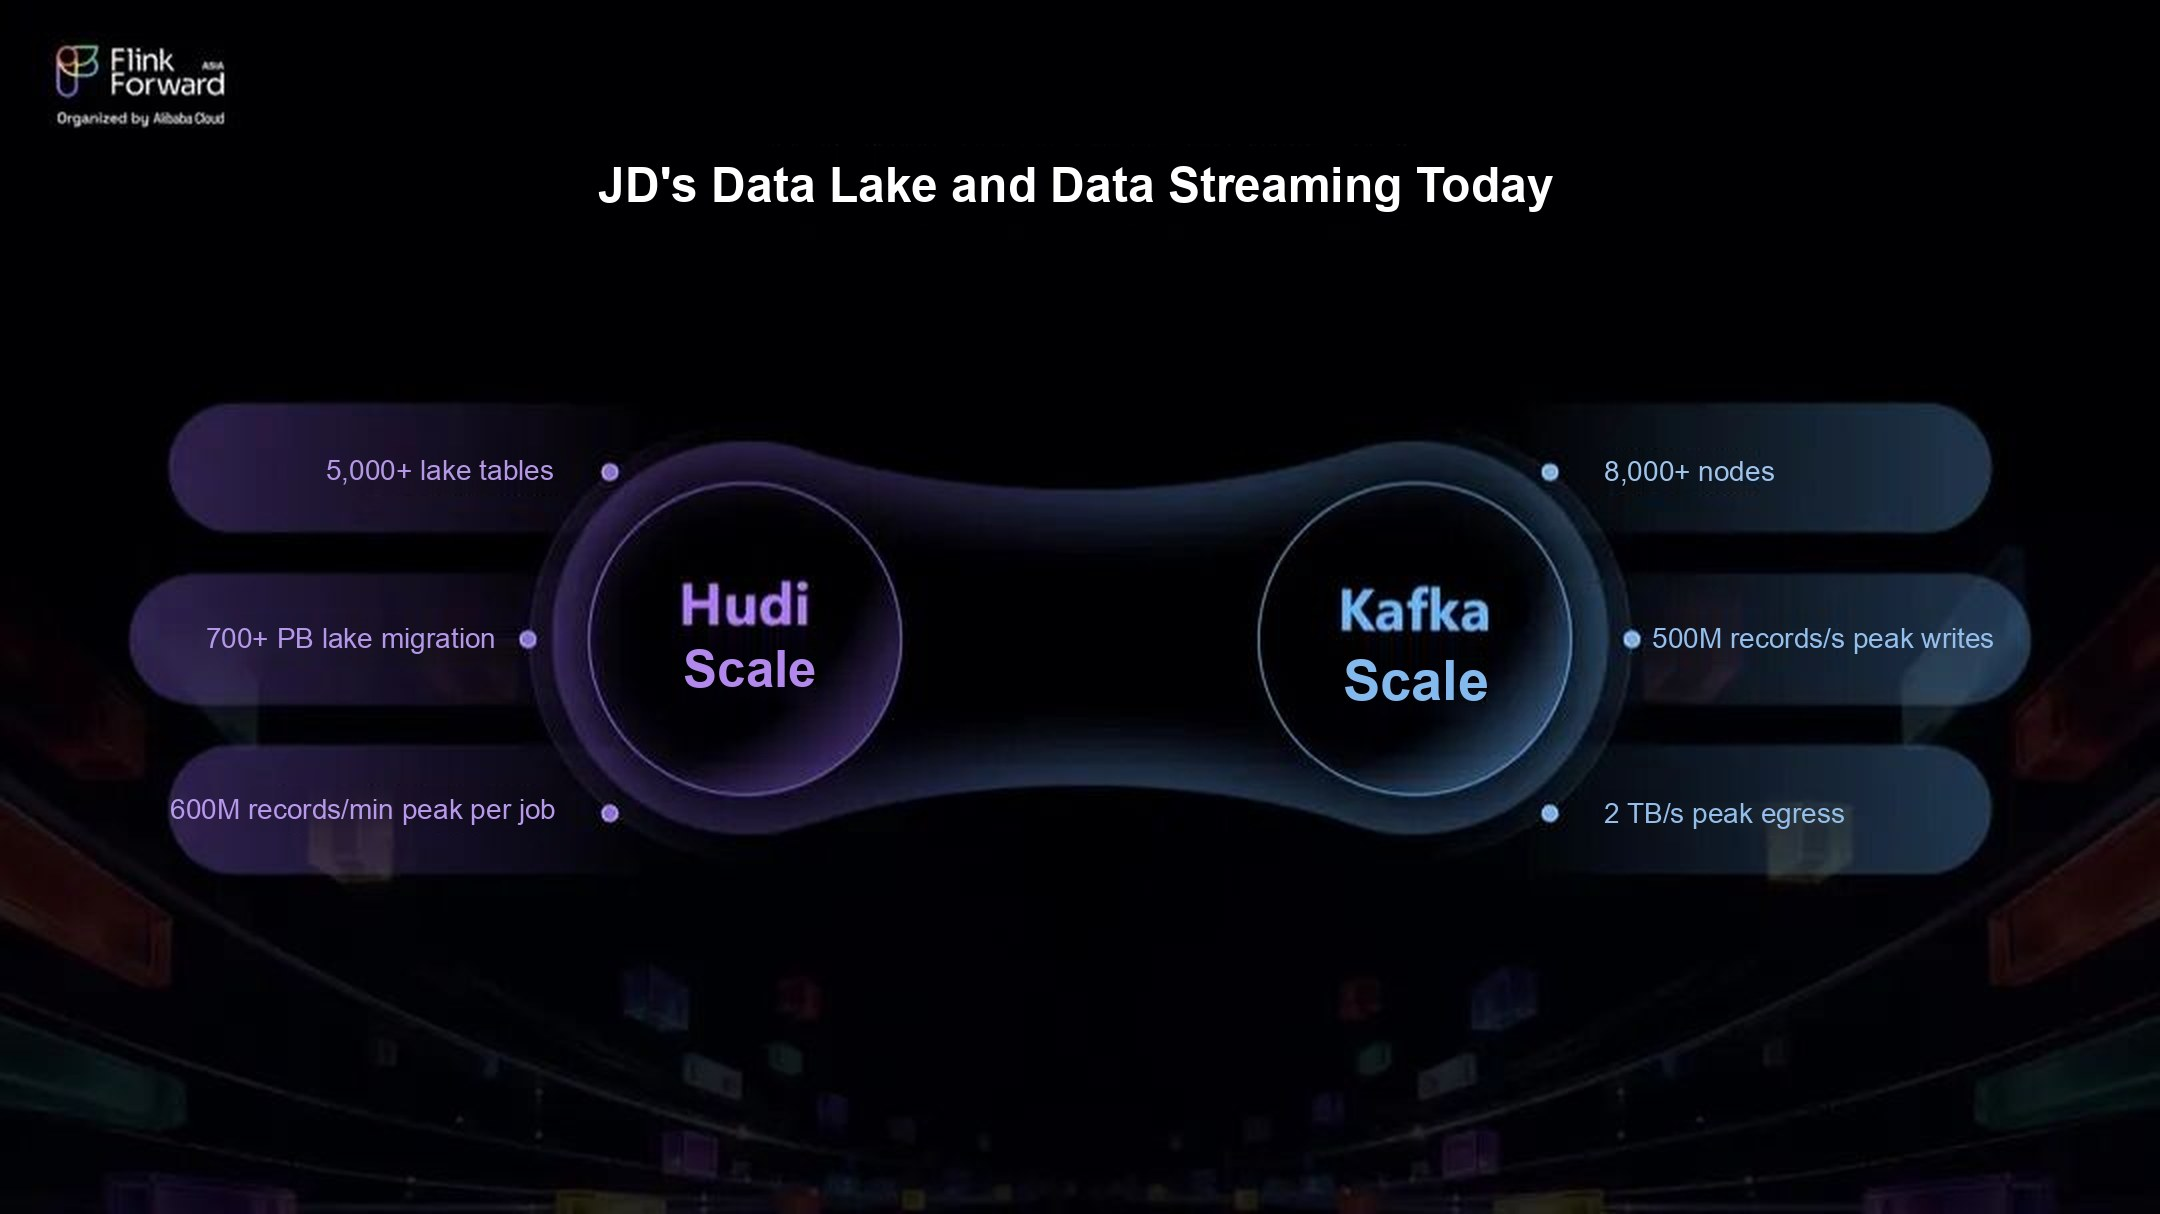
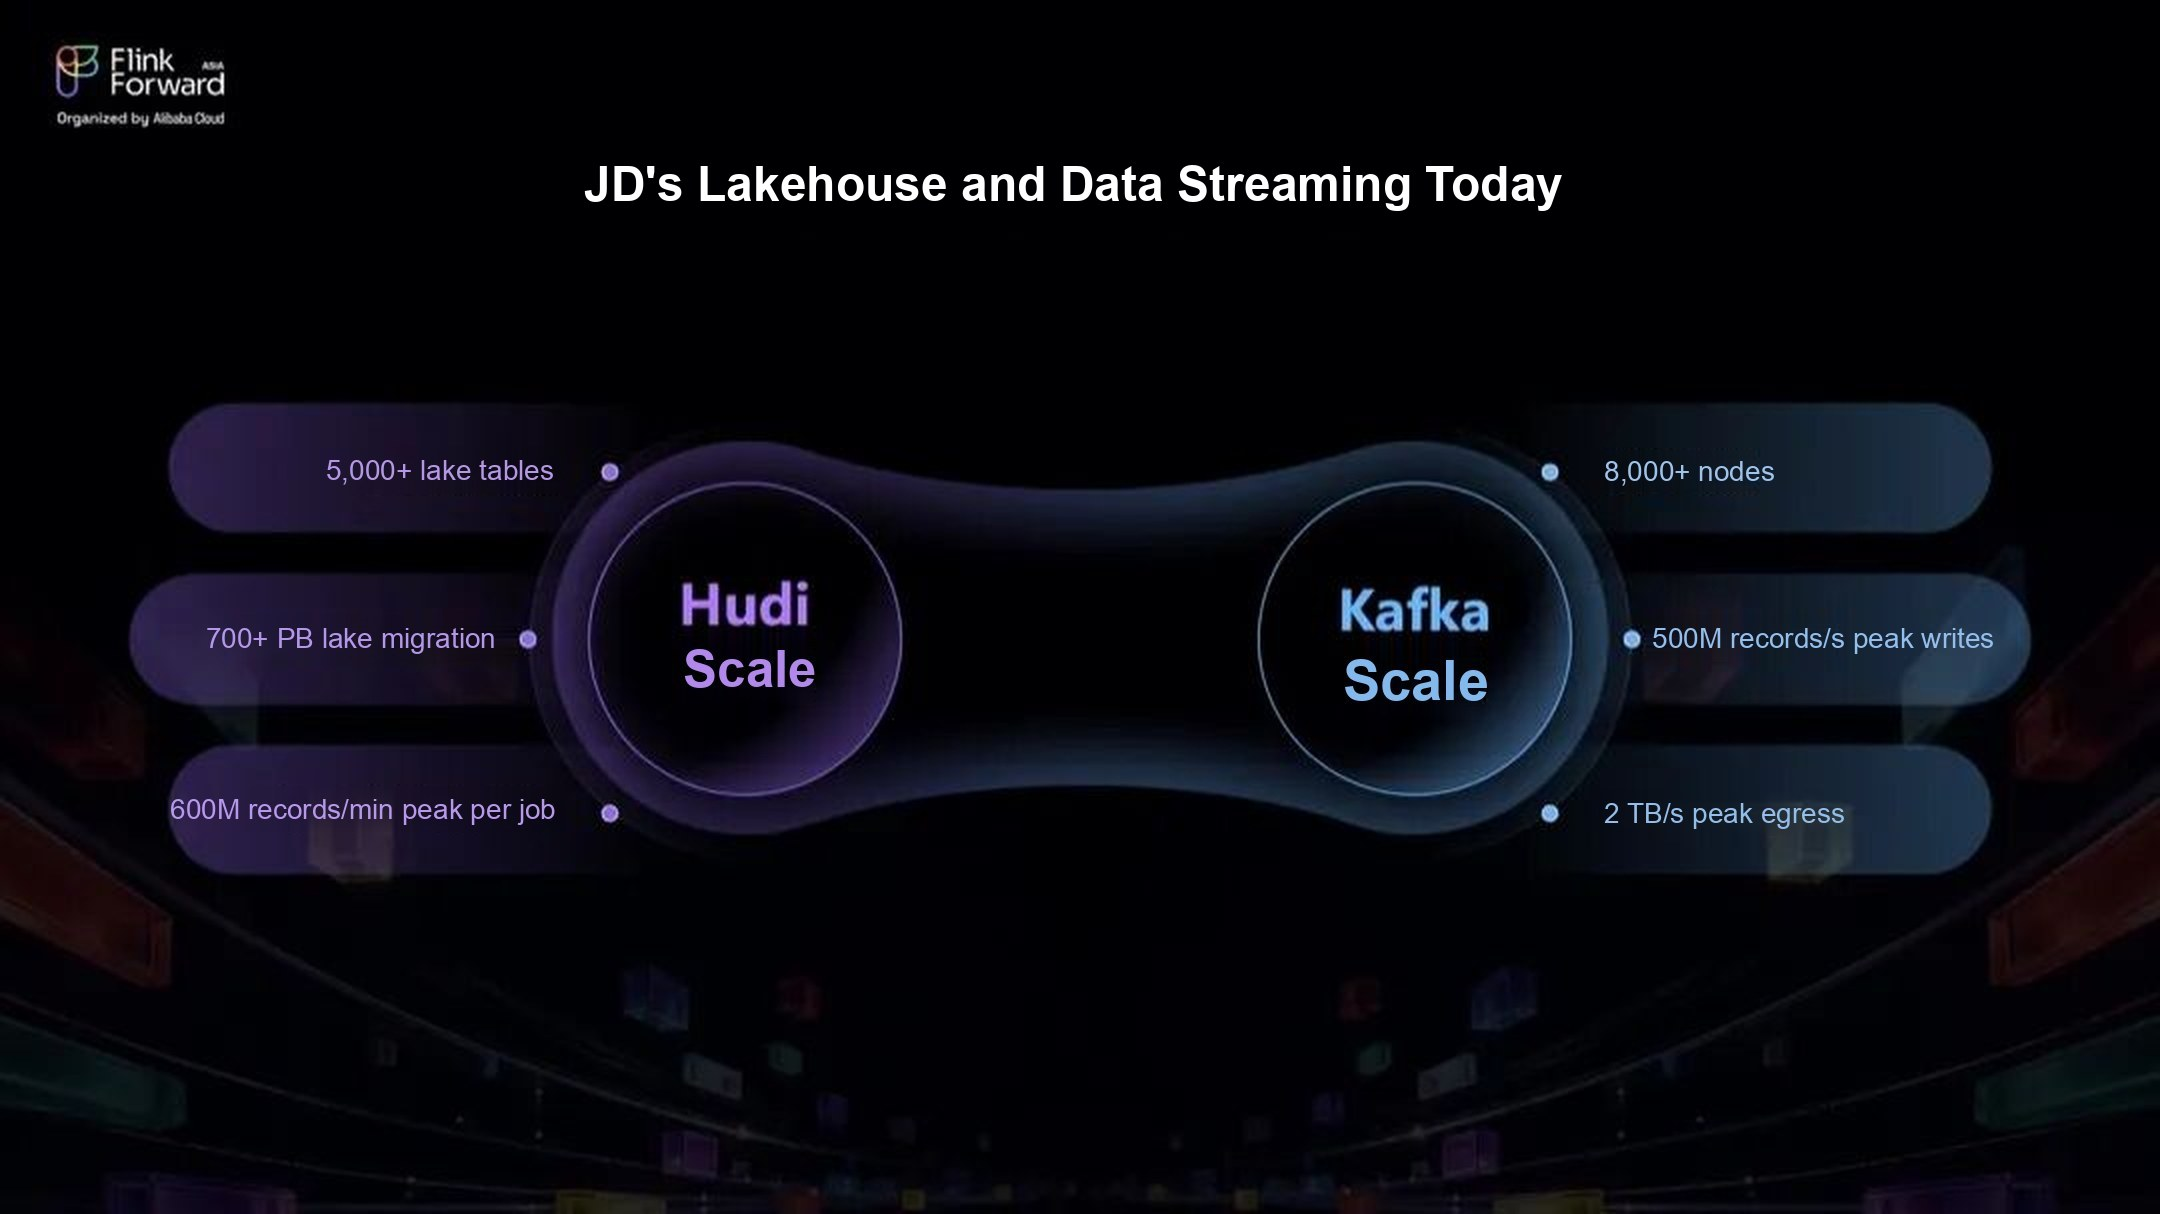
Use lakehouse instead of data lake in the JD translation

Changed region(s): [[0.2792, 0.1219, 0.7444, 0.1829]]

diff --git a/website/blog/2026-10-14-how-jd-built-a-lakestream-with-fluss-and-hudi.md b/website/blog/2026-10-14-how-jd-built-a-lakestream-with-fluss-and-hudi.md
@@ -18,7 +18,7 @@ _This blog was translated from the [original blog in Chinese](https://mp.weixin.
 
 ---
 
-JD.com runs a large Apache Hudi data lake alongside a large Apache Kafka deployment. This post describes how JD links streaming data and lake data with a **Lakestream**: fresh data lives in [Apache Fluss](https://fluss.apache.org/) tables, and a tiering service continuously writes it into Hudi tables. Readers can then query both together. The Fluss community calls this storage foundation a Lakestream: it unifies fresh data in streams with historical data in open lakehouse tables.
+JD.com runs a large Apache Hudi lakehouse alongside a large Apache Kafka deployment. This post describes how JD links streaming data and lake data with a **Lakestream**: fresh data lives in [Apache Fluss](https://fluss.apache.org/) tables, and a tiering service continuously writes it into Hudi tables. Readers can then query both together. The Fluss community calls this storage foundation a Lakestream: it unifies fresh data in streams with historical data in open lakehouse tables.
 
 :::tip TL;DR
 
@@ -33,10 +33,10 @@ The rest of the post covers the challenges, the recommendation ranking redesign,
 
 ## Challenges at JD's Scale
 
-Our data lake and streaming platforms have grown over many years. The lake runs on Apache Hudi, with **more than 5,000 tables** and **more than 700 PB** of data migrated into it, and a single job peaks at **more than 600 million records per minute**. The streaming platform runs on Apache Kafka, with **more than 8,000 nodes** in production, peak writes of **500 million records per second**, and peak egress of **2 TB/s**.
+Our lakehouse and streaming platforms have grown over many years. The lake runs on Apache Hudi, with **more than 5,000 tables** and **more than 700 PB** of data migrated into it, and a single job peaks at **more than 600 million records per minute**. The streaming platform runs on Apache Kafka, with **more than 8,000 nodes** in production, peak writes of **500 million records per second**, and peak egress of **2 TB/s**.
 
-![JD's data lake and data streaming scale](/assets/images/blog/2026-10-14-how-jd-built-a-lakestream-with-fluss-and-hudi/01-jd-lake-stream-scale.jpg)
-_Figure 1: Scale of JD's data lake and streaming platforms_
+![JD's lakehouse and data streaming scale](/assets/images/blog/2026-10-14-how-jd-built-a-lakestream-with-fluss-and-hudi/01-jd-lake-stream-scale.jpg)
+_Figure 1: Scale of JD's lakehouse and streaming platforms_
 
 At this scale, small inefficiencies get expensive. An extra copy of the data, a few fields read but never used, or one more pipeline to maintain each turns directly into cost, stability risk, and engineering time.
 
@@ -64,7 +64,7 @@ The second problem is architectural: the lake and the stream are separate system
 
 So we set out to connect streaming data and lake data in one architecture, covering writes, storage, consumption, and lake ingestion. That is why we adopted Fluss.
 
-The goal is to gradually bring real-time streams and the data lake onto **the same data model, the same service interfaces, and the same way of consuming data**. One copy of data serves real-time jobs through Fluss streaming and batch reads, and is also written to Hudi tables for long-term analysis, model training, and historical replay with engines such as Apache Spark. Jobs that need both use union reads, which query the Hudi table and the newest Fluss data as one table.
+The goal is to gradually bring real-time streams and the lakehouse onto **the same data model, the same service interfaces, and the same way of consuming data**. One copy of data serves real-time jobs through Fluss streaming and batch reads, and is also written to Hudi tables for long-term analysis, model training, and historical replay with engines such as Apache Spark. Jobs that need both use union reads, which query the Hudi table and the newest Fluss data as one table.
 
 For the platform team, this reduces duplicate pipelines and wasted resources, and puts table metadata, schemas, metric definitions, lake ingestion, and operations under one set of controls.
 
